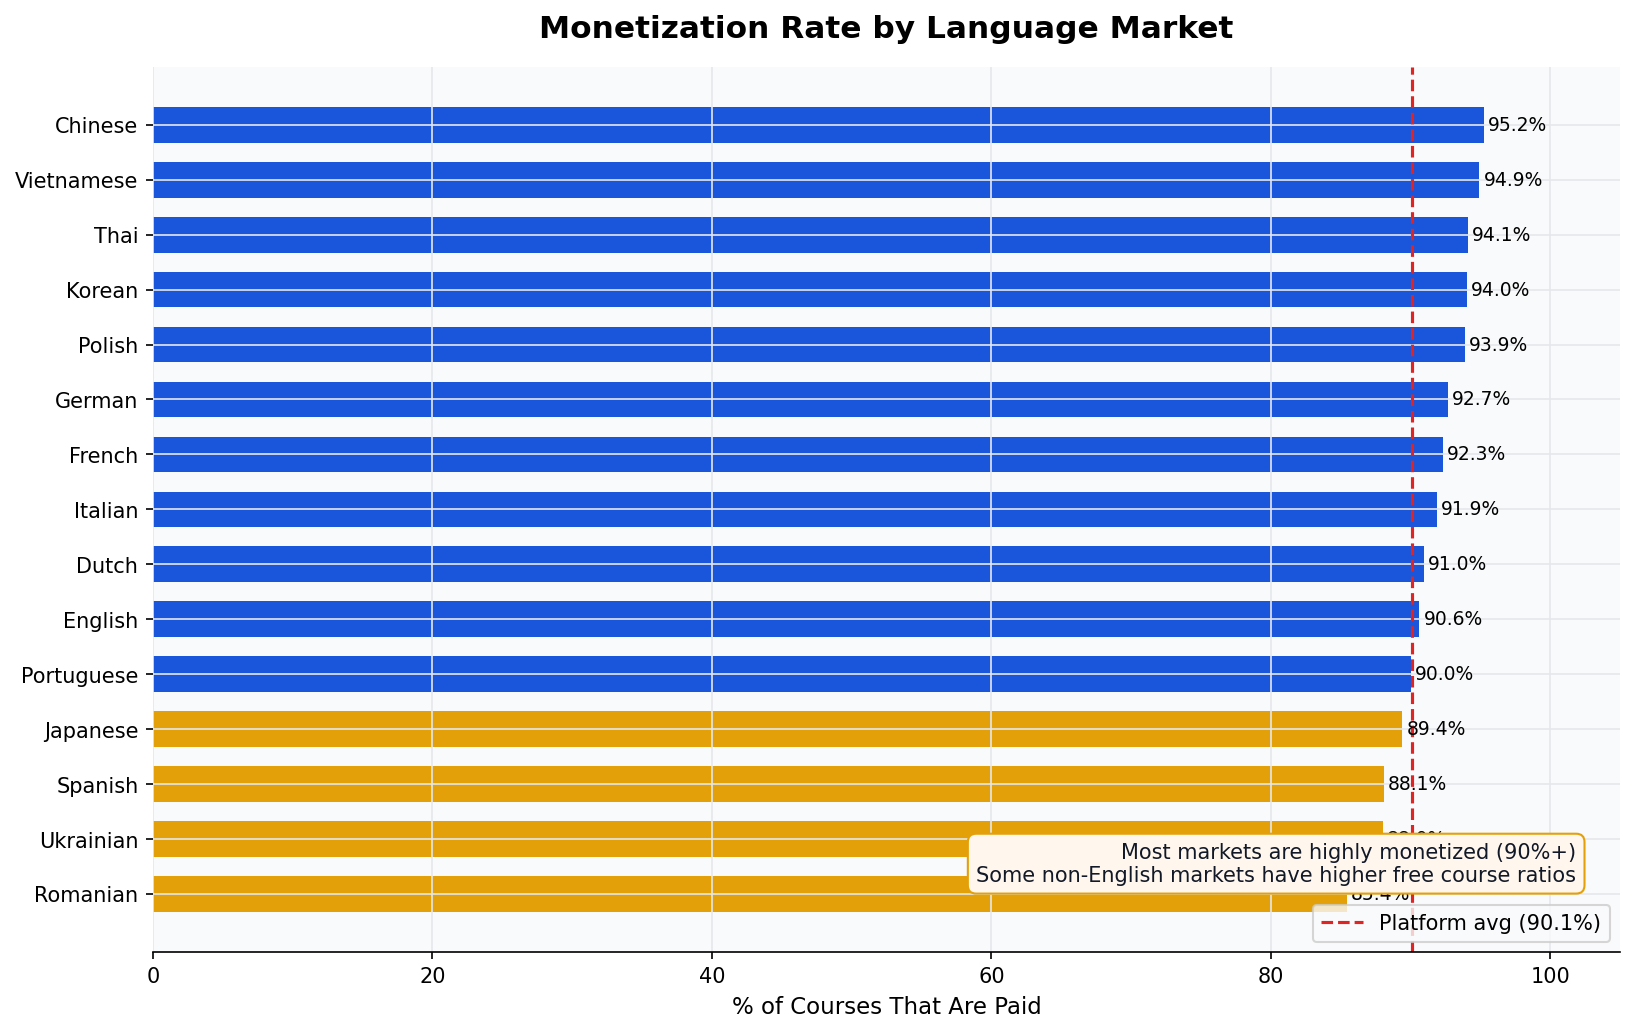
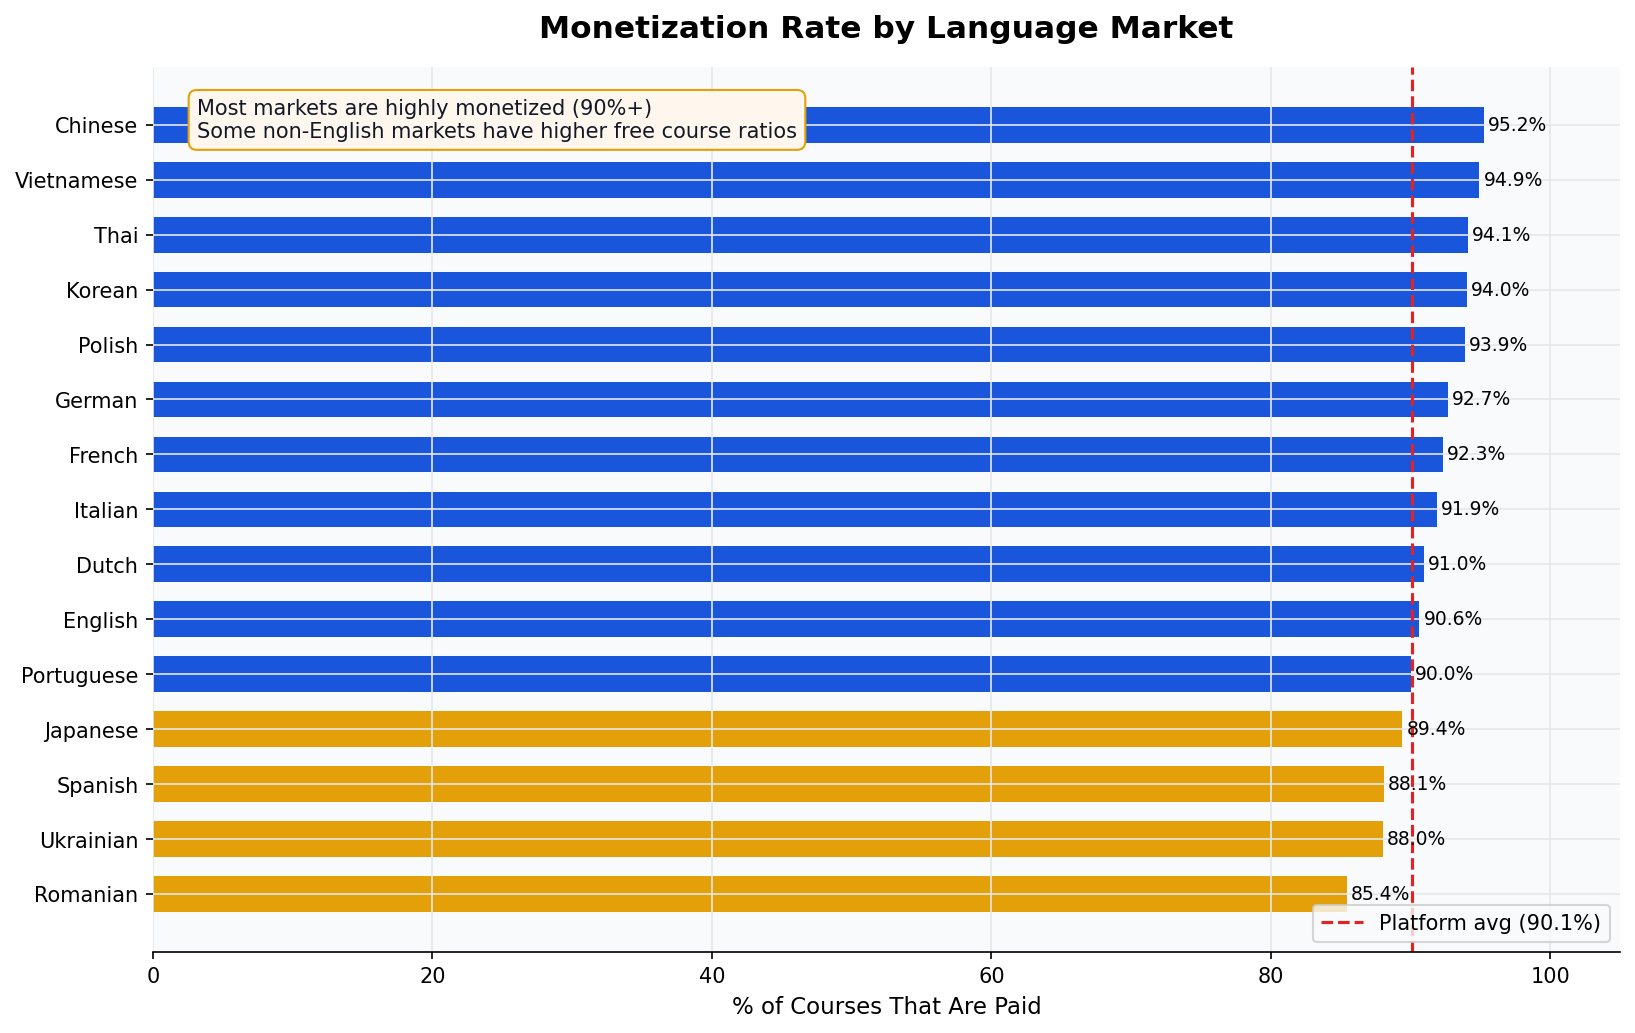
init

Changed region(s): [[0.0936, 0.0929, 0.4991, 0.1549], [0.5927, 0.8054, 0.967, 0.8674]]

diff --git a/scripts/generate_charts.py b/scripts/generate_charts.py
@@ -87,7 +87,7 @@ LANG_NAMES = {
     "HI": "Hindi",      "KO": "Korean",     "RU": "Russian",
     "ID": "Indonesian", "ZH": "Chinese",    "PL": "Polish",
     "VI": "Vietnamese", "NL": "Dutch",      "TH": "Thai",
-    "UK": "Ukrainian",  "RO": "Romanian",
+    "UK": "Ukrainian",  "RO": "Romanian",  "TA": "Tamil",
 }
 df["language_name"] = df["language"].map(LANG_NAMES).fillna(df["language"])
 
@@ -157,8 +157,8 @@ ax.set_title("Platform Growth — Courses Updated Each Year")
 ax.yaxis.set_major_formatter(mticker.FuncFormatter(lambda x, _: f"{x/1000:.0f}K"))
 ax.annotate(
     "2025 was the biggest year on record — 2× the activity of 2024",
-    xy=(0.97, 0.92), xycoords="axes fraction",
-    ha="right", fontsize=10, color=C["dark"],
+    xy=(0.03, 0.92), xycoords="axes fraction",
+    ha="left", fontsize=10, color=C["dark"],
     bbox=dict(boxstyle="round,pad=0.4", fc="#f0fdf4", ec=C["green"], lw=1),
 )
 fig.tight_layout()
@@ -218,8 +218,8 @@ ax.set_title("Rating Quality Distribution — Platform Quality Benchmark")
 ax.yaxis.set_major_formatter(mticker.FuncFormatter(lambda x, _: f"{x/1000:.0f}K"))
 ax.annotate(
     f"Median rating: {rated['rating_average'].median():.2f} / 5.0  •  87% of rated courses score 4.0+",
-    xy=(0.97, 0.92), xycoords="axes fraction",
-    ha="right", fontsize=10, color=C["dark"],
+    xy=(0.03, 0.92), xycoords="axes fraction",
+    ha="left", fontsize=10, color=C["dark"],
     bbox=dict(boxstyle="round,pad=0.4", fc="#f0fdf4", ec=C["green"], lw=1),
 )
 fig.tight_layout()
@@ -284,7 +284,7 @@ ax.set_xticks(x)
 ax.set_xticklabels(level_labels)
 ax.set_ylabel("Number of Courses")
 ax.set_title("Free vs Paid Courses by Difficulty Level")
-ax.legend(loc="upper right", framealpha=0.9)
+ax.legend(loc="upper left", framealpha=0.9)
 ax.yaxis.set_major_formatter(mticker.FuncFormatter(lambda x, _: f"{x/1000:.0f}K"))
 
 # Annotate free % per level
@@ -298,7 +298,7 @@ for i, (paid, free) in enumerate(zip(paid_counts.values, free_counts.values)):
 ax.annotate(
     "Beginner courses have the highest free-to-paid ratio (15% free)\n"
     "Expert-level content is almost entirely behind a paywall",
-    xy=(0.97, 0.92), xycoords="axes fraction",
+    xy=(0.97, 0.68), xycoords="axes fraction",
     ha="right", fontsize=10, color=C["dark"],
     bbox=dict(boxstyle="round,pad=0.4", fc="#eff6ff", ec=C["blue"], lw=1),
 )
@@ -322,9 +322,12 @@ top_instructors = (
       .sort_values()
 )
 
-# Truncate long names so labels stay readable
+# Truncate long names and strip characters that DejaVu Sans can't render (e.g. CJK)
 def trunc(name, n=38):
-    return name[:n] + "…" if len(name) > n else name
+    clean = "".join(c for c in name if ord(c) < 256).strip()
+    if not clean:
+        clean = name  # fallback: keep original if fully non-ASCII
+    return clean[:n] + "…" if len(clean) > n else clean
 
 top_instructors.index = [trunc(n) for n in top_instructors.index]
 
@@ -379,8 +382,8 @@ ax.yaxis.set_major_formatter(mticker.FuncFormatter(lambda x, _: f"{x/1000:.0f}K"
 median_h = df["duration_hours"].median()
 ax.annotate(
     f"Median course length: {median_h:.1f} hours\n"
-    f"Standard (3–10h) courses are the most popular format",
-    xy=(0.97, 0.92), xycoords="axes fraction",
+    f"Short (1-3h) courses are the most common format",
+    xy=(0.97, 0.35), xycoords="axes fraction",
     ha="right", fontsize=10, color=C["dark"],
     bbox=dict(boxstyle="round,pad=0.4", fc="#eff6ff", ec=C["blue"], lw=1),
 )
@@ -447,13 +450,13 @@ for bar in bars:
 
 ax.set_xlabel("Average Rating (out of 5.0)")
 ax.set_title("Average Course Rating by Language Market")
-ax.set_xlim(3.8, lang_rating["avg_rating"].max() + 0.12)
+ax.set_xlim(3.8, lang_rating["avg_rating"].max() + 0.28)
 ax.axvline(x=lang_rating["avg_rating"].mean(), color=C["red"],
            linestyle="--", linewidth=1.5, label=f"Overall avg ({lang_rating['avg_rating'].mean():.2f})")
 ax.legend(loc="lower right")
 ax.annotate(
     "Rating differences are narrow — quality is uniformly high across all language markets",
-    xy=(0.97, 0.08), xycoords="axes fraction",
+    xy=(0.97, 0.92), xycoords="axes fraction",
     ha="right", fontsize=10, color=C["dark"],
     bbox=dict(boxstyle="round,pad=0.4", fc="#f0fdf4", ec=C["green"], lw=1),
 )
@@ -490,8 +493,8 @@ ax.axvline(x=90.1, color=C["red"], linestyle="--", linewidth=1.5,
 ax.legend(loc="lower right")
 ax.annotate(
     "Most markets are highly monetized (90%+)\nSome non-English markets have higher free course ratios",
-    xy=(0.97, 0.08), xycoords="axes fraction",
-    ha="right", fontsize=10, color=C["dark"],
+    xy=(0.03, 0.92), xycoords="axes fraction",
+    ha="left", fontsize=10, color=C["dark"],
     bbox=dict(boxstyle="round,pad=0.4", fc="#fff7ed", ec=C["amber"], lw=1),
 )
 fig.tight_layout()
@@ -530,10 +533,10 @@ ax.yaxis.set_major_formatter(mticker.FuncFormatter(lambda x, _: f"{x/1000:.0f}K"
 recent = freshness[freshness.index >= 2024].sum()
 recent_pct = recent / len(df) * 100
 ax.annotate(
-    f"{recent_pct:.0f}% of the catalog was updated in 2024 or 2025–26\n"
+    f"{recent_pct:.0f}% of the catalog was updated in 2024 or 2025-26\n"
     f"indicating an actively maintained, current content library",
-    xy=(0.97, 0.92), xycoords="axes fraction",
-    ha="right", fontsize=10, color=C["dark"],
+    xy=(0.03, 0.92), xycoords="axes fraction",
+    ha="left", fontsize=10, color=C["dark"],
     bbox=dict(boxstyle="round,pad=0.4", fc="#eff6ff", ec=C["blue"], lw=1),
 )
 fig.tight_layout()
